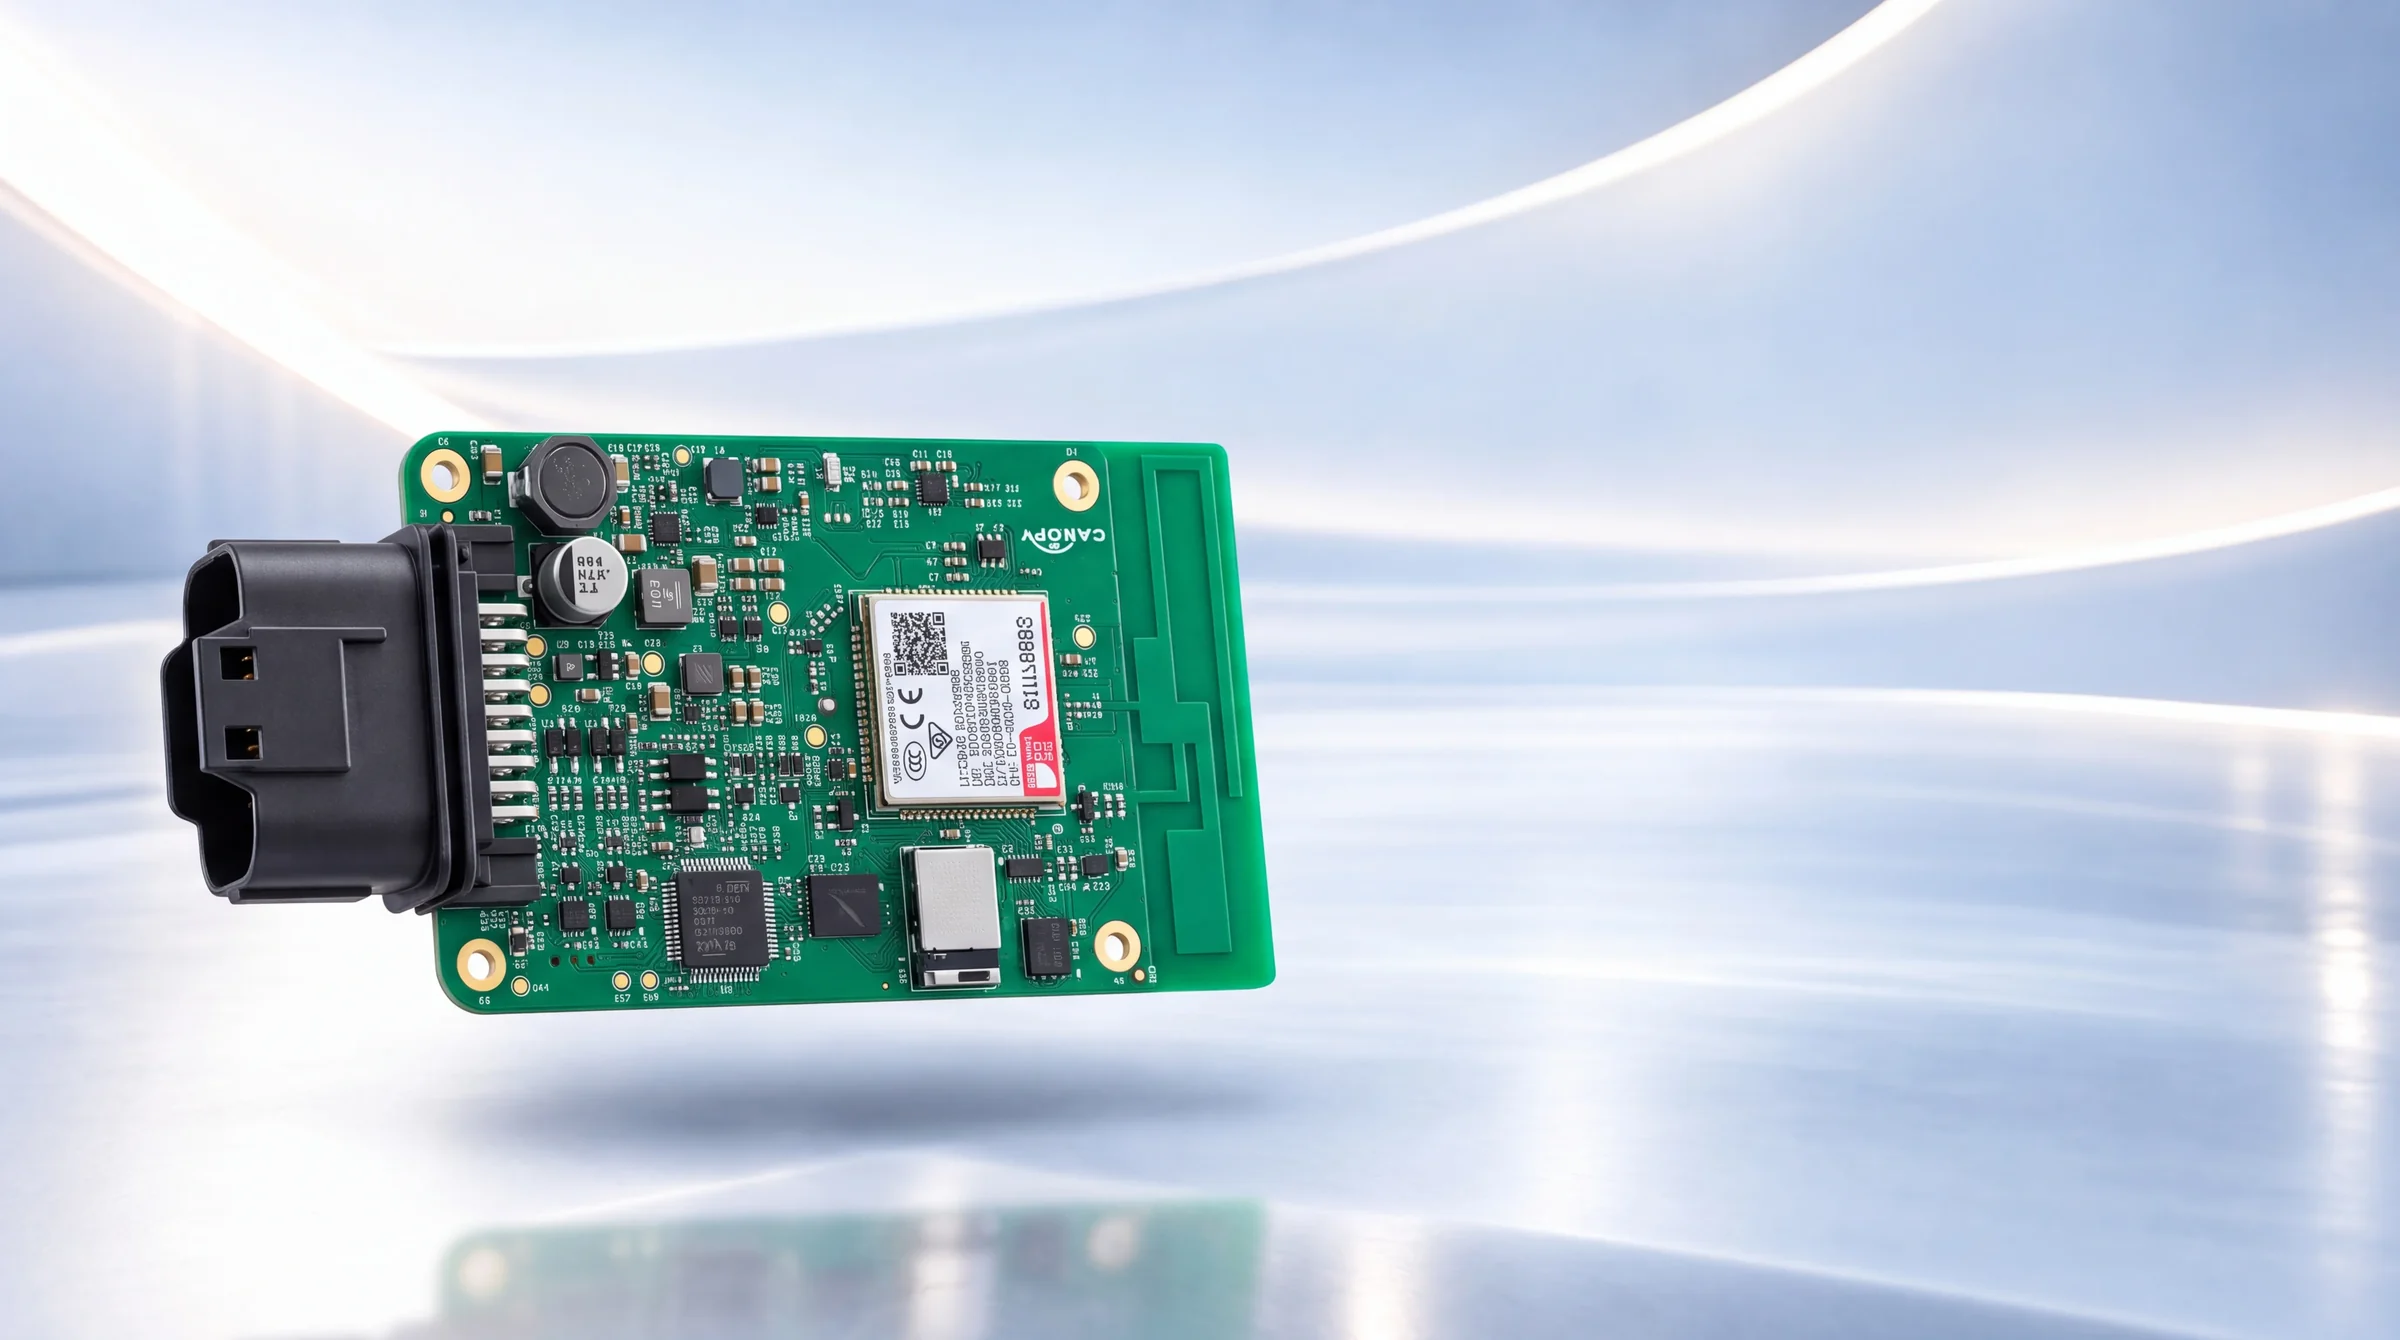
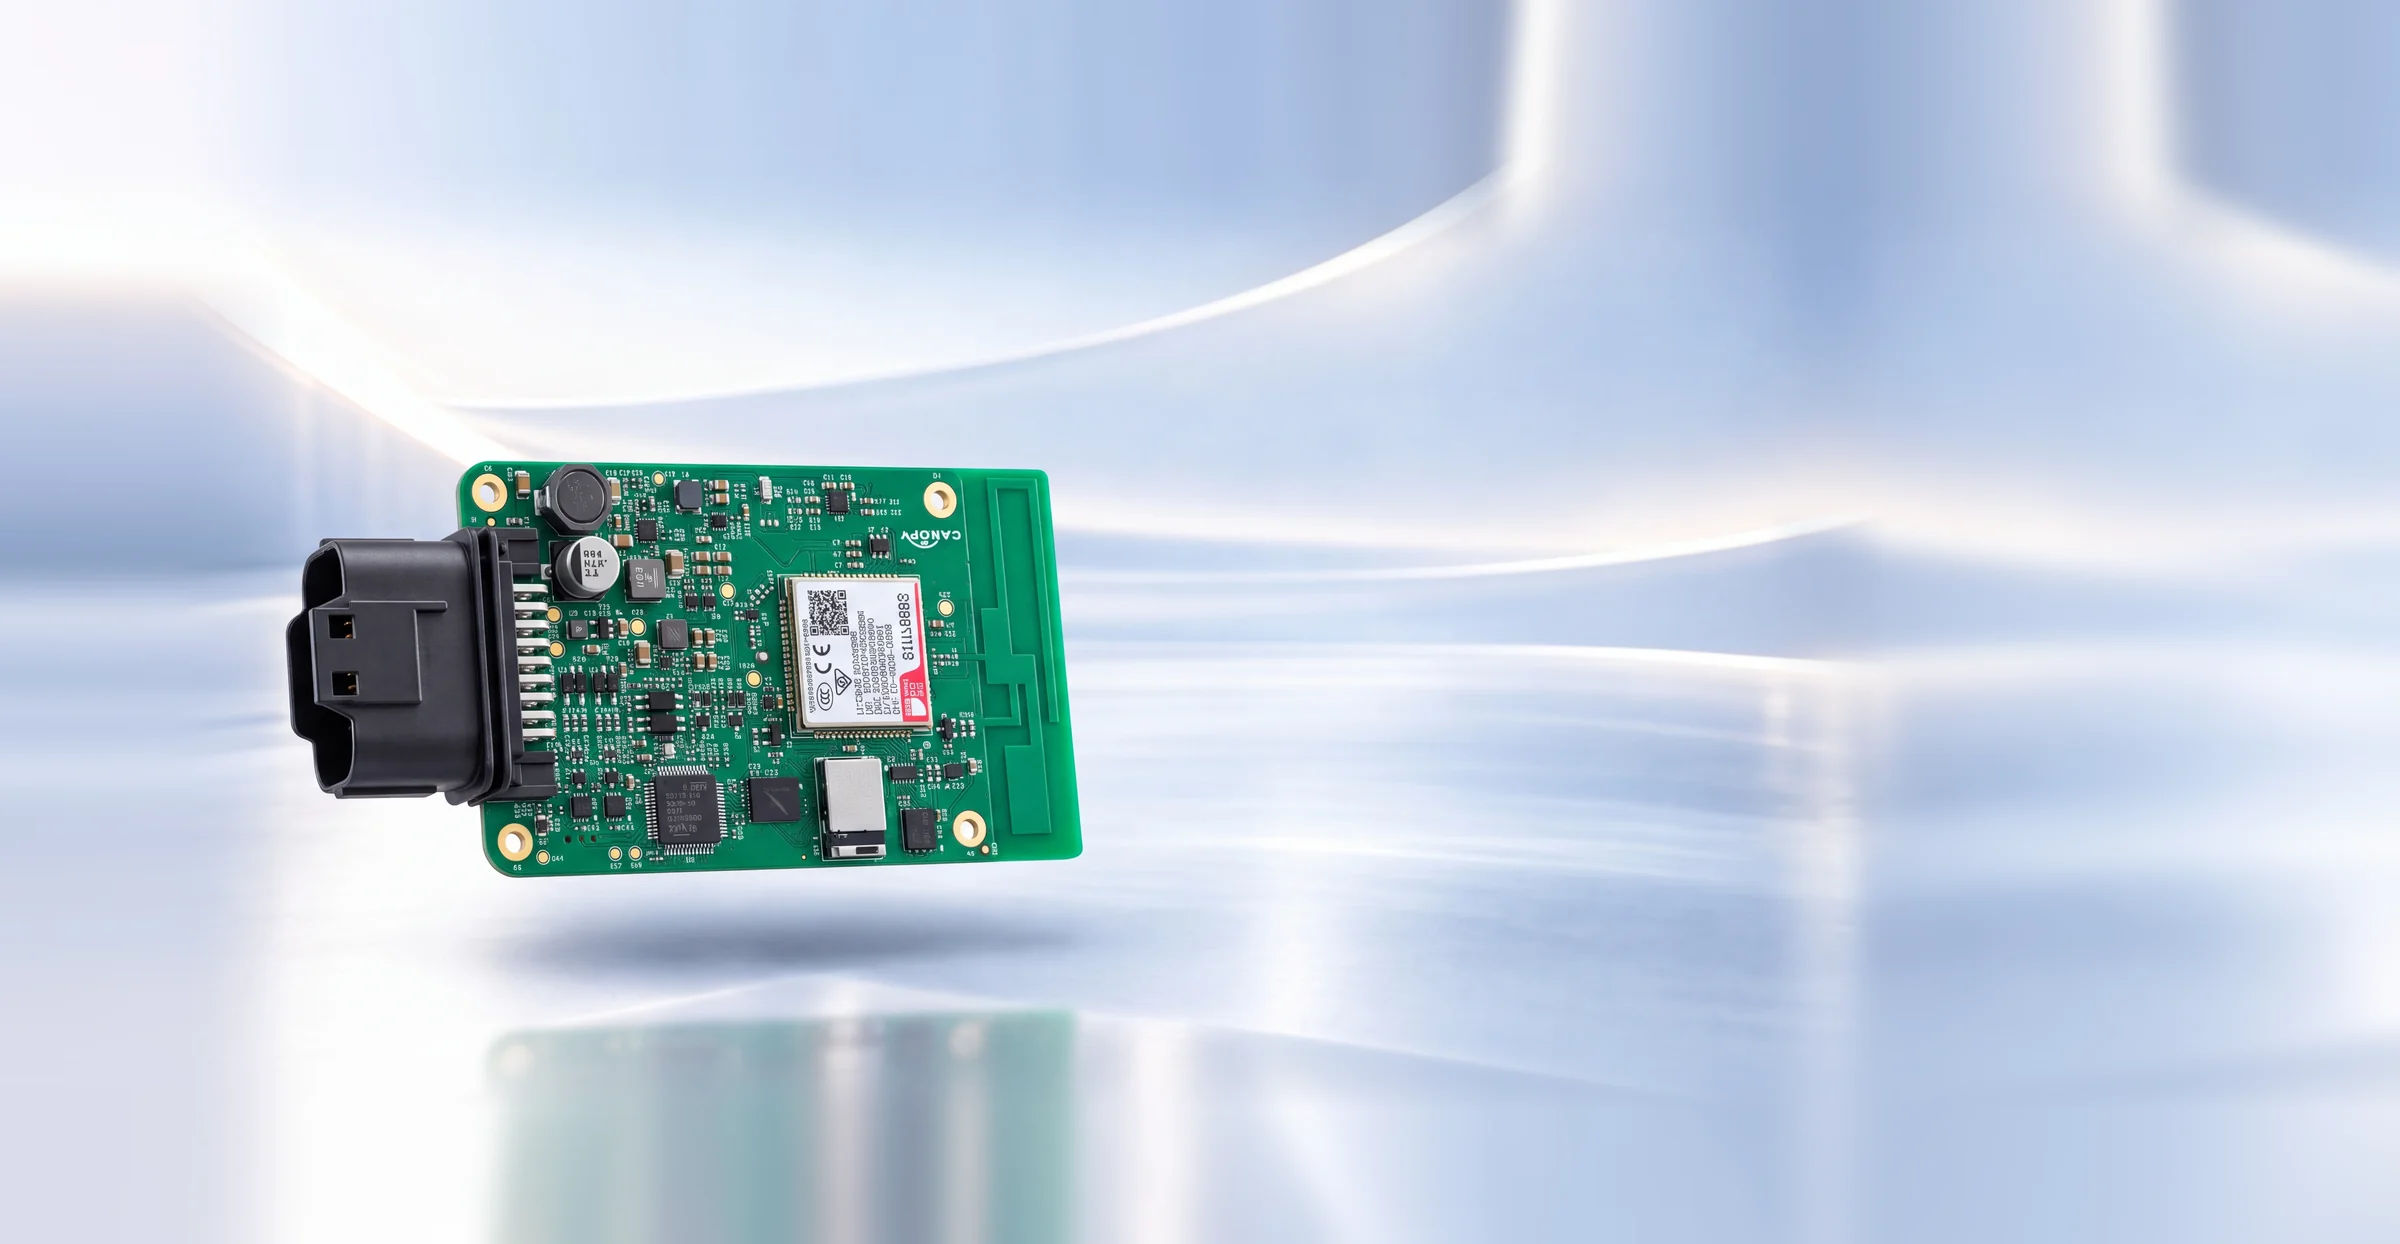
Numbers: zoom out the board image
Claude-Session: https://claude.ai/code/session_019hg5JKm3Ajc1VUuZ1vD315

diff --git a/index.html b/index.html
@@ -150,7 +150,7 @@ p,h1,h2,h3,ul{margin:0}
 @media (min-width:861px){
   .stats-band{background:#EEF1F6}
   .stats-band > .default-pic,.stats-band > .photo,.stats-band::after{grid-column:1 / -1}
-  .stats-band .photo{object-position:0% 55%}
+  .stats-band .photo{object-position:0% 52%}
 }
 @media (min-width:861px) and (max-width:1199px){
   .stats-band .stats-col{padding-left:clamp(48px,7vw,84px)}
@@ -773,7 +773,7 @@ p,h1,h2,h3,ul{margin:0}
   </script>
 
   <section id="numbers" class="stats-band has-media" data-sec="Numbers" data-sid="numbers" data-slot="numbers" data-slot-l="Numbers image" data-default-media="images/numbers.webp" aria-label="Canopy in numbers">
-    <picture class="default-pic"><img class="photo" src="images/numbers.webp?v=2" alt="The Explorer circuit board floating above a bright reflective surface, with its wiring connector and cellular module in view" width="2400" height="1340" loading="lazy" decoding="async"></picture>
+    <picture class="default-pic"><img class="photo" src="images/numbers.webp?v=4" alt="The Explorer circuit board floating above a bright reflective surface, with its wiring connector and cellular module in view" width="2400" height="1244" loading="lazy" decoding="async"></picture>
     <div class="stats-col">
       <dl class="stats-list">
         <div class="stat"><dt class="stat-l" data-k="num.1.l" data-l="Number 1 label">Vehicles connected</dt><dd class="stat-v"><span class="stat-src" data-k="num.1.v" data-l="Number 1">[X]+</span></dd></div>
